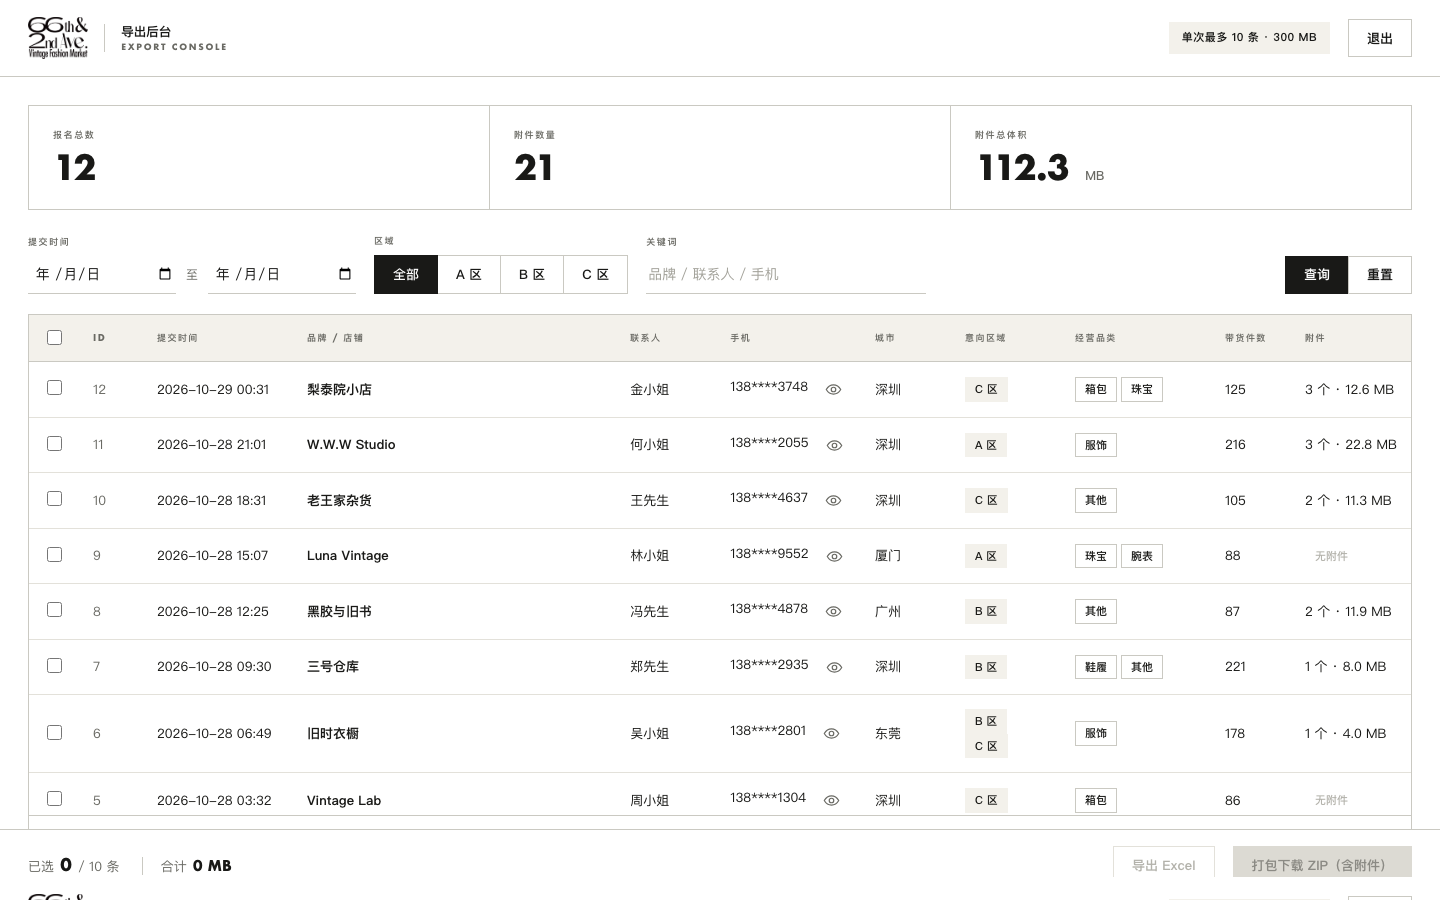
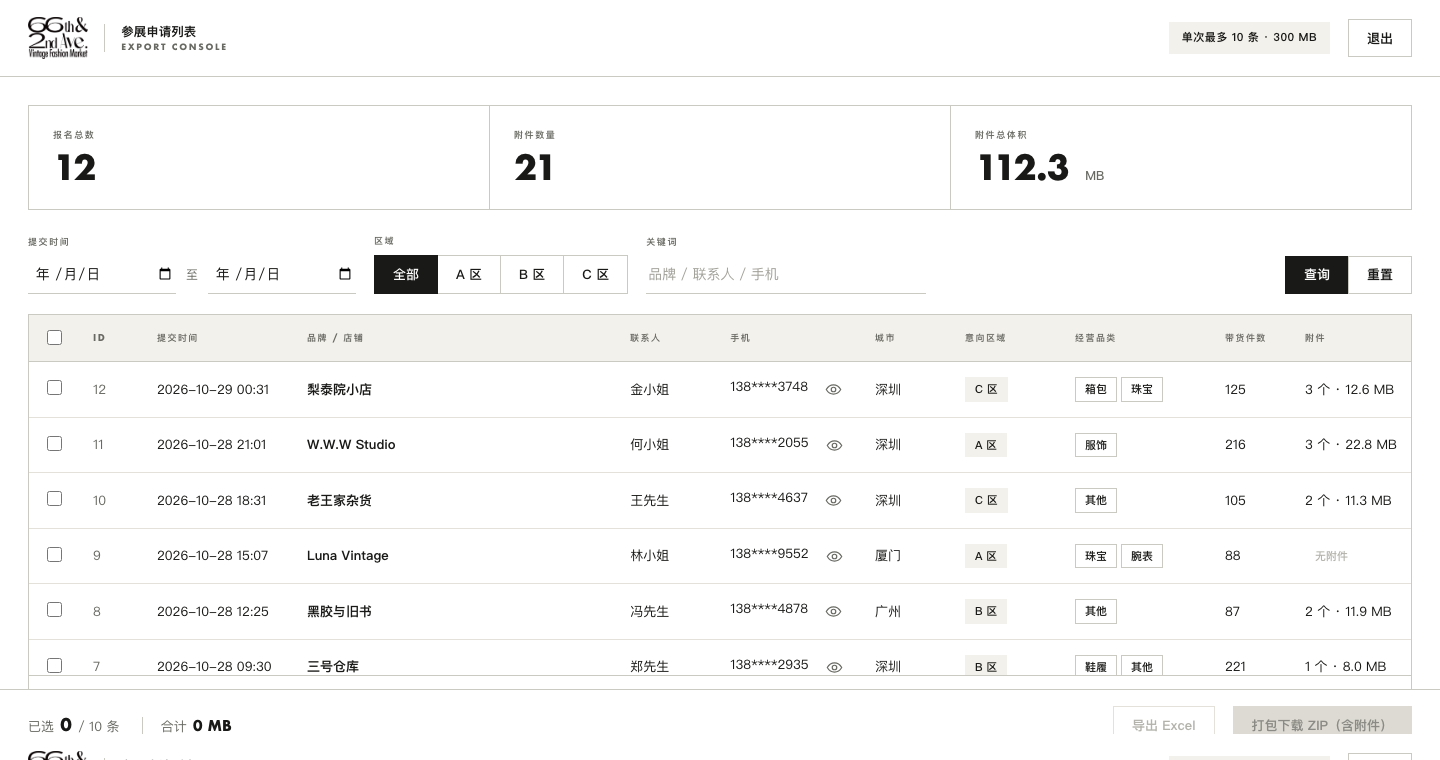
copy(ui): 中文「导出后台」改为「参展申请列表」
- 顶栏品牌区：参展申请列表 / EXPORT CONSOLE
- 登录页标题：参展申请列表
- 浏览器标题：参展申请列表｜66th & 2nd Ave.
- SITE_TITLE 默认值同步；英文保留 Export Console 不变

diff --git a/static/index.html b/static/index.html
@@ -6,7 +6,7 @@
 <meta name="theme-color" content="#f3f1eb">
 <link rel="icon" type="image/png" href="/favicon.png">
 <link rel="apple-touch-icon" href="/favicon.png">
-<title>66th 参展申请 · 导出后台</title>
+<title>参展申请列表｜66th &amp; 2nd Ave.</title>
 <style>
   :root{
     /* —— 与 activity-66-portal 一致的设计变量 —— */
@@ -210,7 +210,7 @@
 <div id="loginView" class="login-wrap">
   <form class="login-card" id="loginForm">
     <img class="login-brand" src="/brand.png" alt="66th &amp; 2nd Ave.">
-    <h1 id="loginTitle">参展申请导出后台</h1>
+    <h1 id="loginTitle">参展申请列表</h1>
     <p>请输入访问令牌（由管理员提供）</p>
     <input class="input block" id="tokenInput" type="password" placeholder="Export Token"
            autocomplete="current-password" style="width:100%;height:44px;margin-bottom:14px">
@@ -225,7 +225,7 @@
     <div class="topbar-in">
       <a class="brand-bar" href="/" aria-label="66th &amp; 2nd Ave. Vintage Fashion Market">
         <img src="/brand.png" alt="66th &amp; 2nd Ave. Vintage Fashion Market">
-        <span class="brand-tag">导出后台<em>Export Console</em></span>
+        <span class="brand-tag">参展申请列表<em>Export Console</em></span>
       </a>
       <div class="spacer"></div>
       <span class="pill accent" id="limitPill">单次最多 10 条</span>

diff --git a/app/main.py b/app/main.py
@@ -1,4 +1,4 @@
-"""66th 参展申请 —— 导出后台（只读，独立服务）。"""
+"""66th 参展申请 —— 参展申请列表（只读，独立服务）。"""
 
 from __future__ import annotations
 
@@ -18,7 +18,7 @@ from .excel import build_workbook, excel_filename, zip_filename
 from .export import iter_zip
 
 DESCRIPTION = """
-66th & 2nd 市集 —— **参展申请导出后台**。
+66th & 2nd 市集 —— **参展申请列表**。
 
 - 只读访问采集服务的数据库与附件目录，不会写入任何数据
 - 页面上筛选、勾选、导出清单（CSV）或打包下载（ZIP）

diff --git a/app/config.py b/app/config.py
@@ -28,7 +28,7 @@ class Settings:
         self.max_page_size = int(os.getenv("MAX_PAGE_SIZE", "100"))
 
         # ---- 展示 ----
-        self.title = os.getenv("SITE_TITLE", "66th 参展申请 · 导出后台")
+        self.title = os.getenv("SITE_TITLE", "参展申请列表｜66th & 2nd Ave.")
         self.event_name = os.getenv("EVENT_NAME", "66th & 2nd Vintage Fashion Show & Market")
         self.allow_origins = _env_list("ALLOWED_ORIGINS", "*") or ["*"]
         self.static_dir = os.getenv("STATIC_DIR", "static")

diff --git a/app/demo.py b/app/demo.py
@@ -148,7 +148,7 @@ def seed(reset: bool) -> None:
 
 
 def main() -> None:
-    parser = argparse.ArgumentParser(description="导出后台 DEMO")
+    parser = argparse.ArgumentParser(description="参展申请列表 DEMO")
     parser.add_argument("--reset", action="store_true", help="清掉旧数据重新生成")
     parser.add_argument("--port", type=int, default=8010)
     parser.add_argument("--host", default="127.0.0.1", help="要对外访问填 0.0.0.0")

diff --git a/README.md b/README.md
@@ -1,6 +1,6 @@
 # activity-66-export
 
-66th & 2nd 市集 —— **参展申请导出后台**（只读，独立服务）。
+66th & 2nd 市集 —— **参展申请列表**（只读，独立服务）。
 
 勾选 → 导出 **Excel**（三个 sheet）/ 打包下载 **ZIP**（Excel + 商家上传的原附件）。
 **不写库、不动文件**，和采集服务完全隔离。
@@ -124,7 +124,7 @@ docker compose up -d --build      # 或 docker run，见 docs/DEPLOY.md
 | `MAX_EXPORT_MB` | `300` | 单次附件合计上限 |
 | `PAGE_SIZE` | `20` | 每页条数 |
 | `MAX_PAGE_SIZE` | `100` | 接口允许的最大 page_size |
-| `SITE_TITLE` | `66th 参展申请 · 导出后台` | 页面标题 |
+| `SITE_TITLE` | `参展申请列表｜66th & 2nd Ave.` | 页面标题 |
 | `ALLOWED_ORIGINS` | `*` | 跨域白名单 |
 
 改完重启容器生效，不用重新构建。
